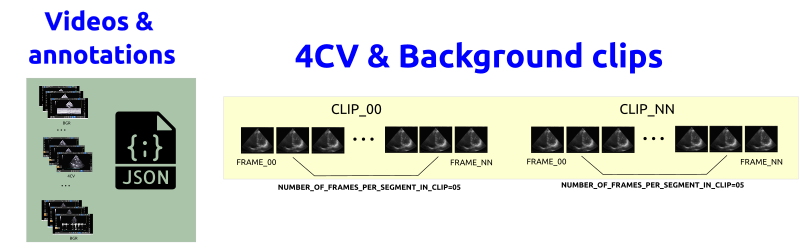
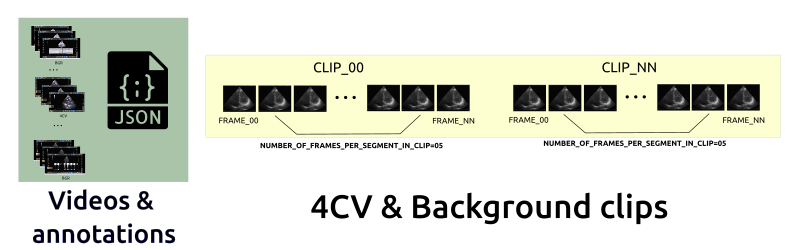
update main README and figures (#49)

diff --git a/README.md b/README.md
@@ -1,4 +1,7 @@
-# Real-time AI-empowered echocardiography
+<h1 align="center"> Real-time AI-empowered echocardiography </h1>
+<div align="center">
+ 
+</div>
 
 ## Summary 
 This repository contains documentation and code for an experimental clinical system to perform real-time artificial-intelligence-empowered echocardiography.
@@ -10,19 +13,20 @@ See more [here](scripts/learning-pipeline).
 2. Creation and verification of annotations with VGG Image Annotator (VIA) software. See [more](data/labelling).
 3. Jupyter notebook :notebook: for [data curation, selection and validation](scripts/curation-selection-validation); 
 ![fig](docs/figures/data-workflow.png)     
-_**Fig 1.** Data workflow._
+_**Fig 1.** Workflow for data annotation and validation._
 
 ## Deep learning pipeline
-1. Model training and tuning (Fig. 2). See [more](scripts/learning-pipeline).
-2. Model validation (performance evaluation and clinical evaluation). 
-3. AI-based device modification, and (perhaps) AI-based production model . 
+1. Model prototypes (MobileNetV1, MobileNetV2, SqueezeNet, EfficientNet, AlexNet, etc). See [more](source/models/architectures.py).
+2. Model training and tuning (Fig. 2). See [more](scripts/learning-pipeline).
+3. Model validation (performance evaluation and clinical evaluation). 
+4. AI-based device modification, and (perhaps) AI-based production model . 
 ![fig](docs/figures/DL-pipeline.png)     
 _**Fig 2.** Deep learning pipeline of the AI-empowered echocardiography._
 
-## Hardware and software of the clinical system  
+## Clinical system  
 Figure 3 illustrates the real-time AI-empowered clinical system based on [EPIQ 7 ultrasound](https://www.usa.philips.com/healthcare/product/HC795200C/epiq-7-ultrasound-system-for-cardiology), [X5-1 xMATRIX array transducer ](https://www.philips.co.uk/healthcare/product/HC989605400801/x5-1) and [USB framegrabber MiraBox Video Capture](https://miraboxbuy.com/collections/new-arrivals/products/hsv3211-video-capture-card).
 The software of the system is based on [Machine learning pipeline](scripts/learning-pipeline) and [Plug-in based, Real-time Ultrasound](source/PRETUS_Plugins). 
-See further details [here](docs/system) on laptop hardware, OS and software of the system.
+See further details [here](docs) on laptop hardware, OS and software of the system.
 
 ![fig](docs/figures/rt-ai-system.png)    
 _**Fig 3.** Real-time AI-empowered clinical system._  
